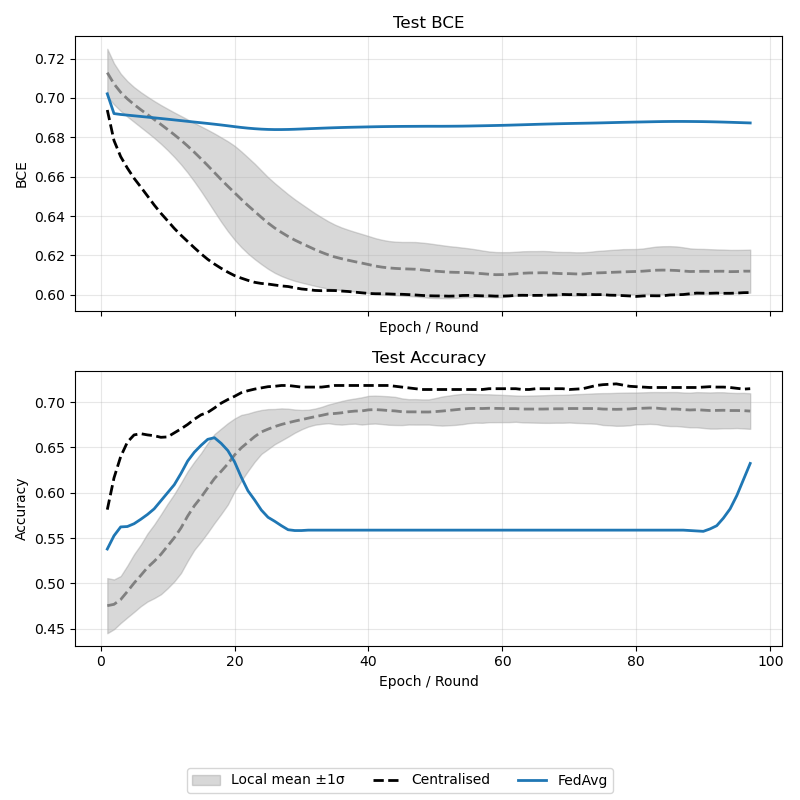
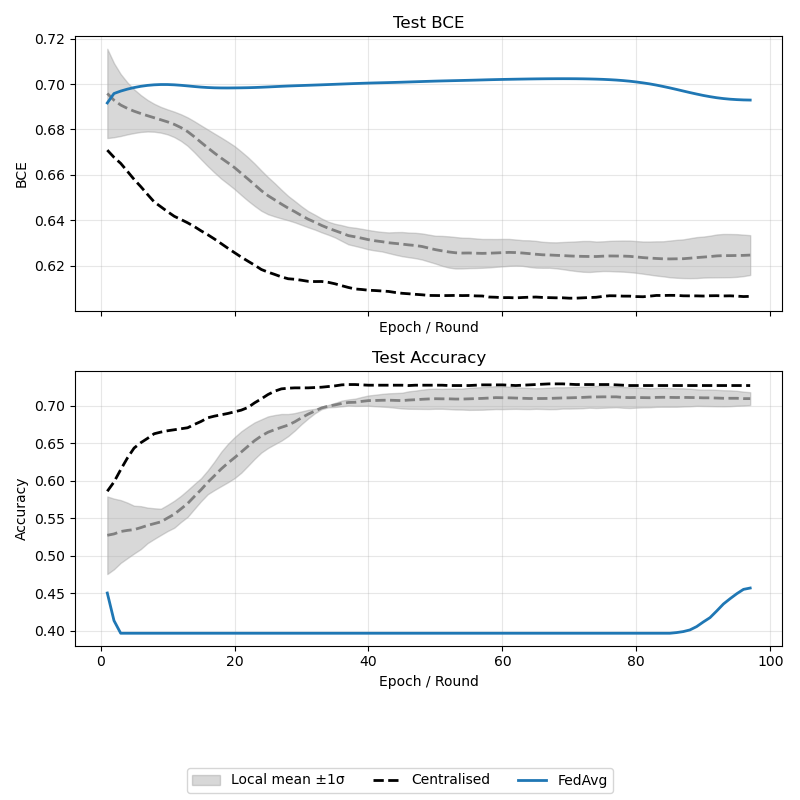
inverse + best epochs

diff --git a/federated_atic_flower.py b/federated_atic_flower.py
@@ -120,6 +120,9 @@ def load_features(path: str = "Data/SP500/SP500_classification_easy.csv") -> pd.
             print(f"features[{i}]: {features[i]}")
     else:
         print("First row 'features' is not 2D:", features)
+    # Invert the order of the whole dataset (reverse rows)
+    df = df.iloc[::-1].reset_index(drop=True)
+    index_array = index_array[::-1]
     return df, index_array
 
 
